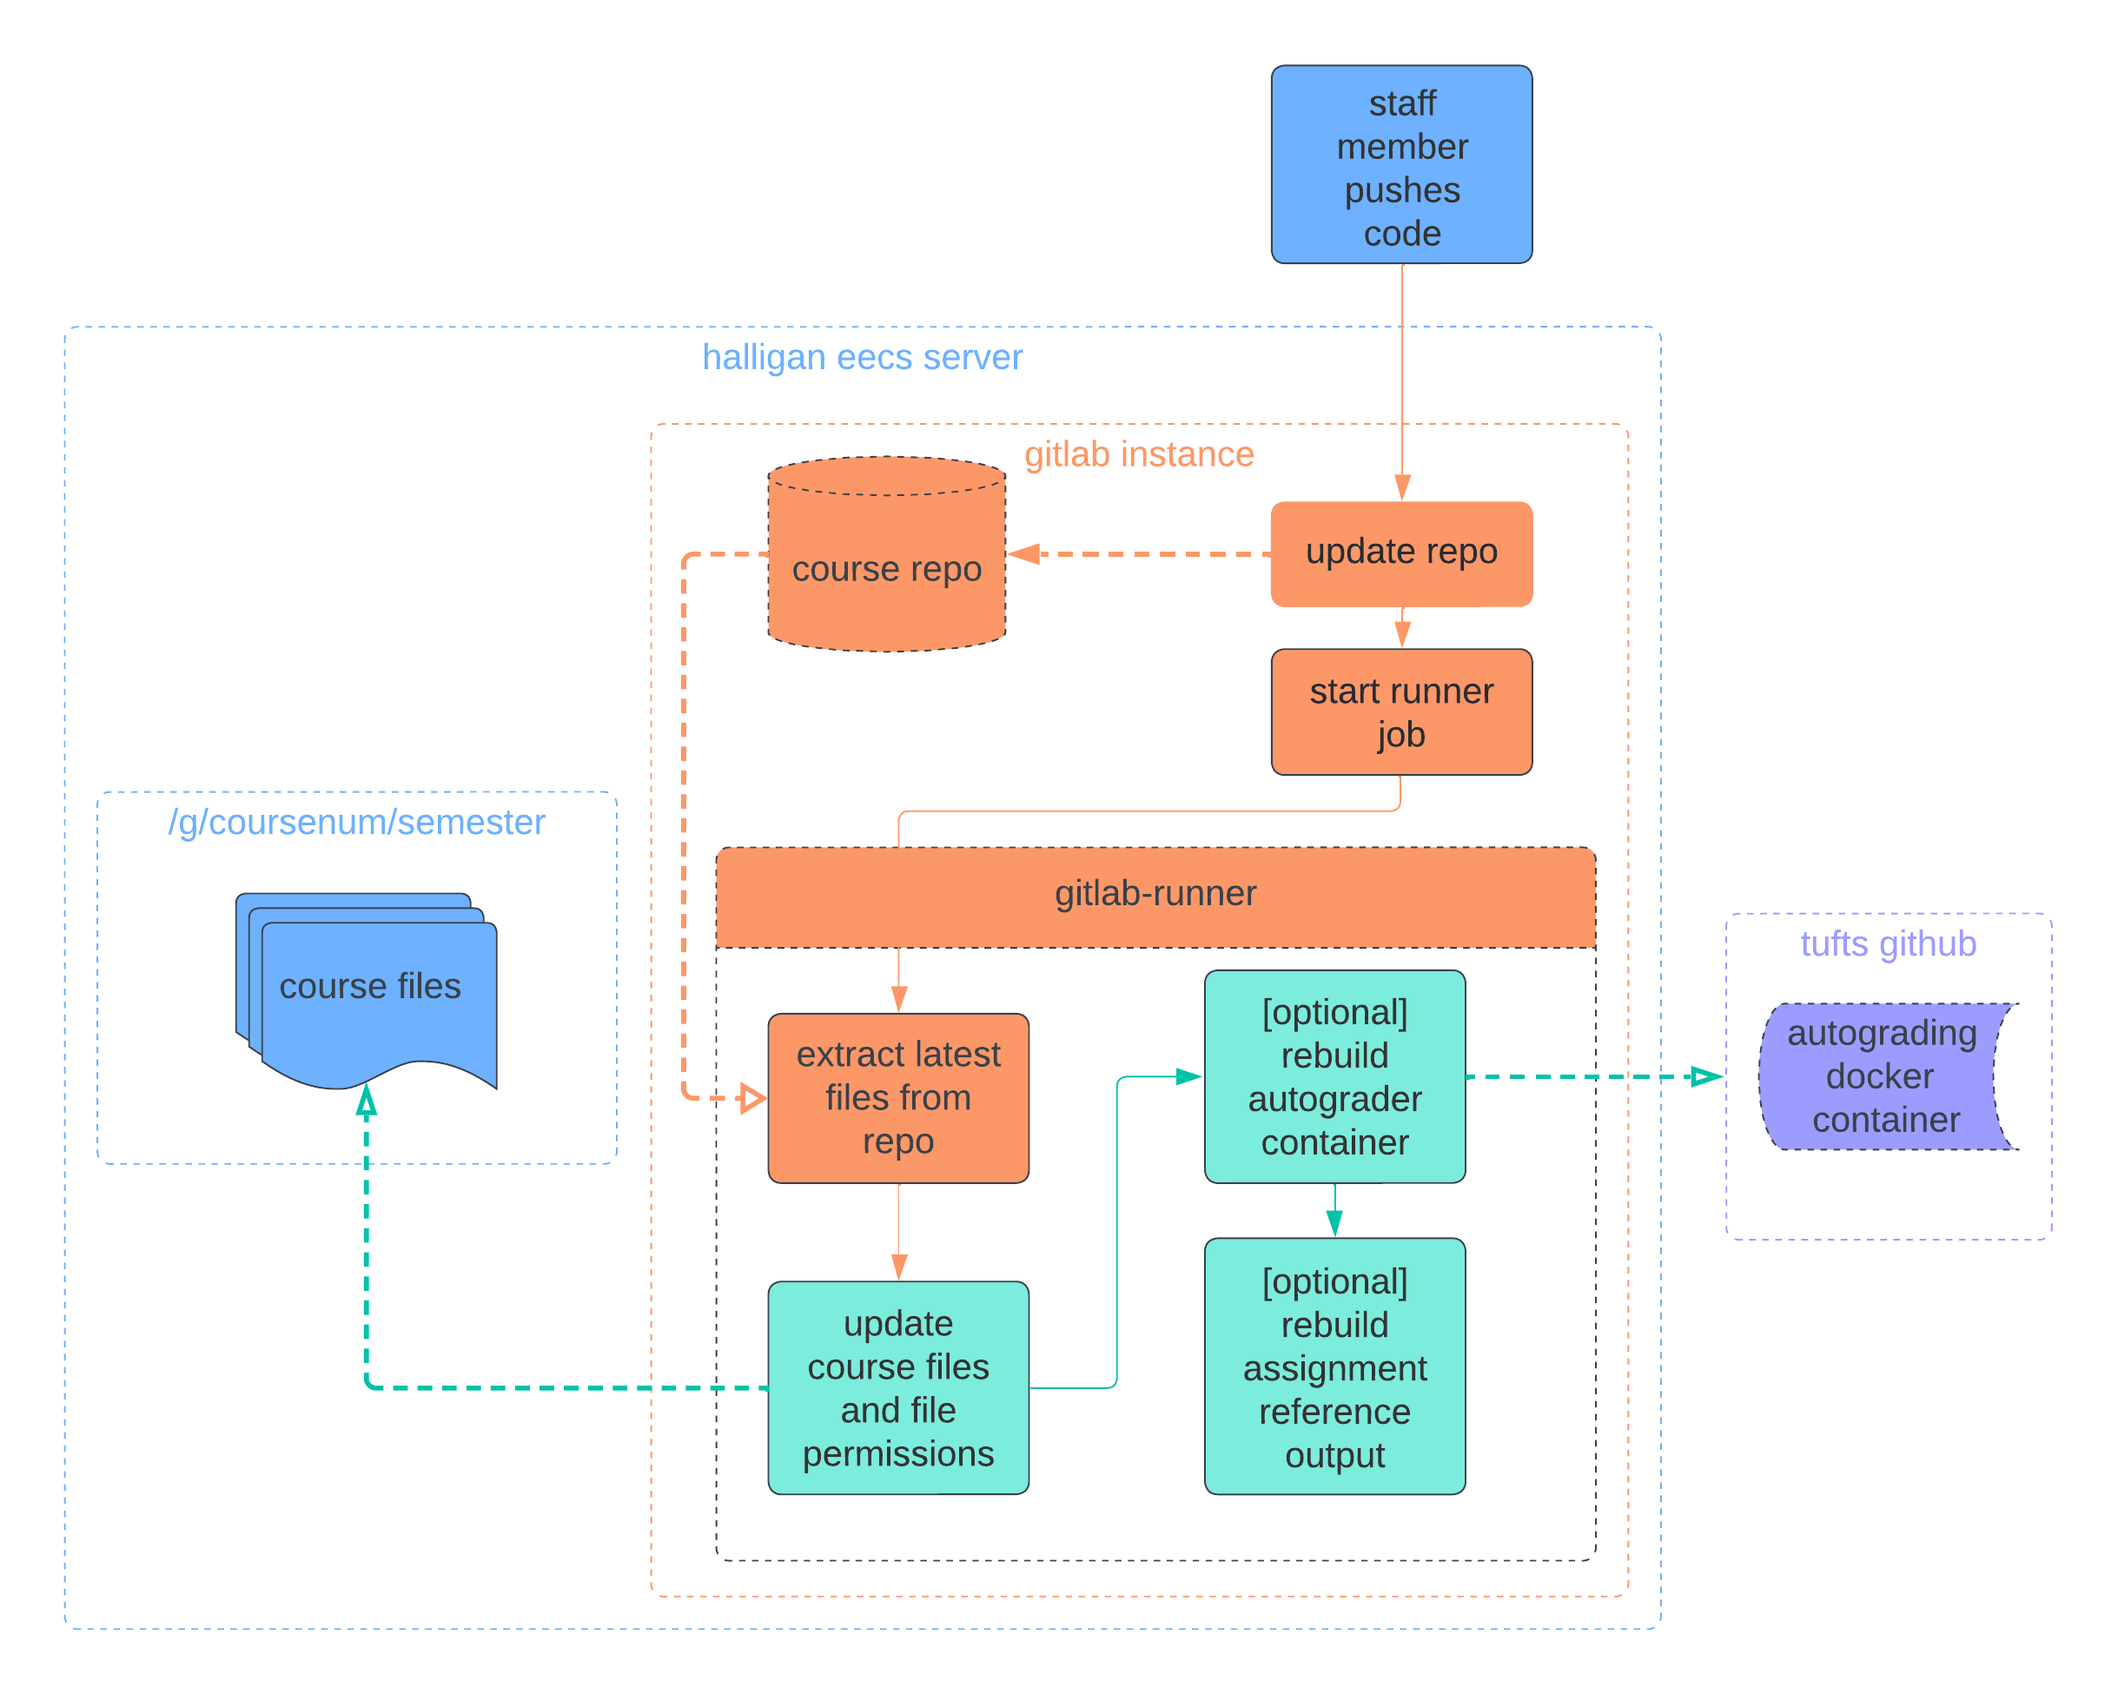
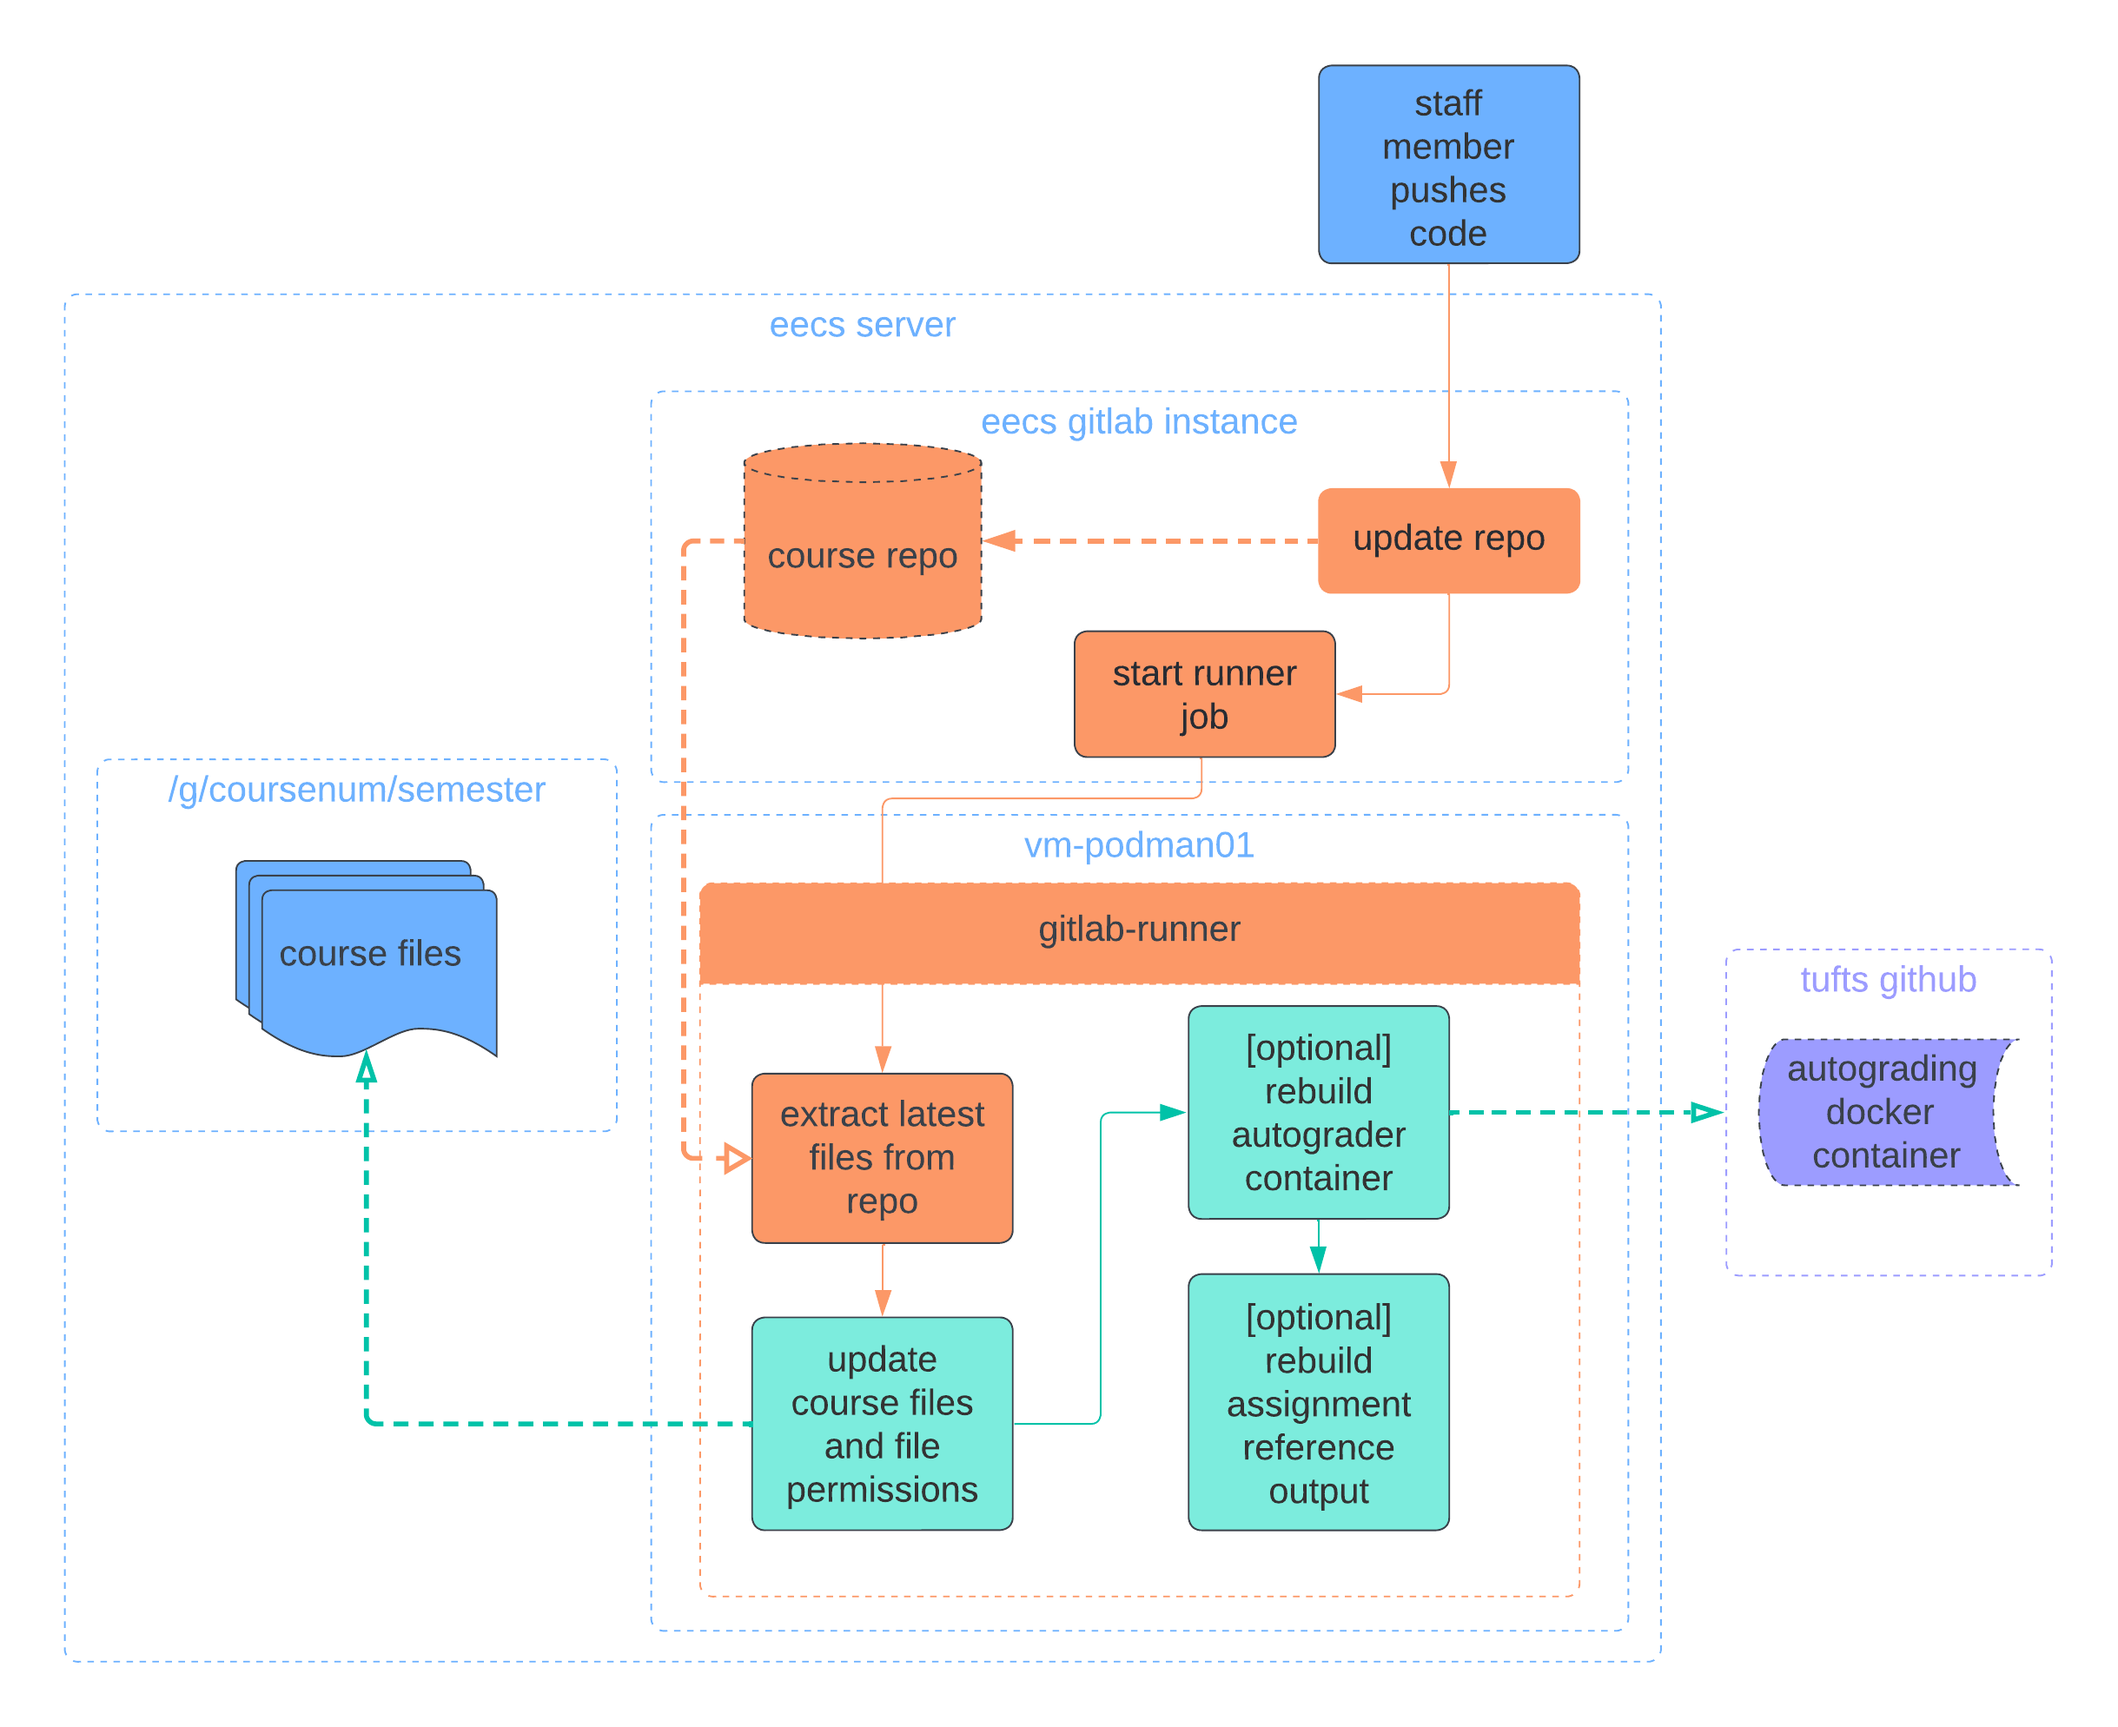
documentation updates

diff --git a/README.md b/README.md
@@ -68,102 +68,56 @@ Contains code executable by staff
 The `config.toml` file contains various essential bits of information related to the directory structure, and your course configuration in general. Please configure it as appropriate.
 
 ```toml
-# These correspond to the folders above
 [repo]
 AUTOGRADING_ROOT = "autograding" 
 ASSIGN_ROOT      = "assignments" 
-ASSIGN_AG_DIR    = "autograder"  
-ASSIGN_SOL_DIR   = "solution"
-```
+ASSIGN_AG_DIR    = "autograder"   # e.g. assignments/my_assign/autograder
+ASSIGN_SOL_DIR   = "solution"     # e.g. assignments/my_assign/solution
 
-```toml
 [halligan]
-#
-# the [halligan] section contains variables relating to storage of 
-# data from the course repo on the halligan server. These variables
-# will be used by the CI/CD pipeline to
-#   1) place the course files in /g/${COURSE_NUM}/${TERM}
-#   2) course files will be chgrp'd as ${FILE_GROUP}
 COURSE_NUM = 15
-TERM       = "2023s"
-FILE_GROUP = "ta15"
-```
+TERM       = "2023s"     # CI/CD puts course files to /g/$COURSE_NUM/$TERM
+FILE_GROUP = "ta15"      # CI/CD chgrps course files as $FILE_GROUP
 
-```toml
 [tokens]
-#
-# the [tokens] section contains token-related information. 
-# 
-# MANAGE_TOKENS   -> whether to manage tokens or not
-# GRACE_TIME      -> submission time is subtracted by this value (in minutes)
-# TOKEN_TIME      -> time per token (in minutes)
-# STARTING_TOKENS -> value in all students accounts to begin the semester
-#                    note: this value *is* modifiable mid-semester
-#
-# MAX_PER_ASSIGN  -> maximum number of tokens a student can use per assignment
-#                    note: for now MUST be 2, so tweak TOKEN_TIME instead
-#
-# EXCEPTIONS      -> dictionary of the form "TOKEN USER" = MAX_TOKENS
-#                    note: must EXACTLY match the student's gradescope name
-MANAGE_TOKENS   = true
-GRACE_TIME      = 15   
-TOKEN_TIME      = 1440 
-STARTING_TOKENS = 5
-MAX_PER_ASSIGN  = 2
-[tokens.EXCEPTIONS]
-"Matthew P. Russell" = 1
-```
+MANAGE_TOKENS   = true   # manage tokens or not?
+GRACE_TIME      = 15     # (in minutes)
+TOKEN_TIME      = 1440   # (in minutes)
+STARTING_TOKENS = 5      # max per-student: modifiable anytime
+MAX_PER_ASSIGN  = 2      # (this must be 2 for now)
+[tokens.EXCEPTIONS]      
+"Matthew P. Russell" = 1 # adjust student max: EXACT name on gradescope
 
-```toml
 [misc]
-#
-# [misc] contains other miscellaneous information
-#
-# SUBMISSIONS_PER_ASSIGN -> max submissions each student has per assignment
-#                           note: is overridable an assign's testset.toml
-#
-# TEST_USERS -> gradescope users who are exempt from submission validation
-SUBMISSIONS_PER_ASSIGN = 5
-TEST_USERS             = ["Matthew P. Russell"]
-```
+SUBMISSIONS_PER_ASSIGN = 5                      # overridable in testset.toml
+TEST_USERS             = ["Matthew P. Russell"] # EXACT gs name
 
-```toml
 [style]
-#
-# [style] contains auto style-checker info
-#
-# NON_CODE_STYLE_CHECKSET -> files to stylecheck outside of code (e.g. 80 cols)
-# CODE_STYLE_CHECKSET     -> files to stylecheck for code stuff
-# MAX_COLUMNS             -> max allowable columns for 'good style'
-# XXXXXX_STYLE_WEIGHT     -> relative points to take off for:
-#     COLUMNS -> exceeding MAX_COLUMNS
-#     TABS    -> tab characters
-#     TODOS   -> string "TODO"
-#     SYMBOL  -> &&, ||, !, etc.
-#     BREAK   -> "break"
-#     BOOLEAN -> x == true, y == false
 NON_CODE_STYLE_CHECKSET = ['README', '.h', '.cpp']
 CODE_STYLE_CHECKSET     = ['.h', '.cpp']
 MAX_COLUMNS             = 80
-COLUMNS_STYLE_WEIGHT    = 1
+COLUMNS_STYLE_WEIGHT    = 1    # XXX_STYLE_WEIGHT relative points to deduct
 TABS_STYLE_WEIGHT       = 1
-TODOS_STYLE_WEIGHT      = 0.5
-SYMBOL_STYLE_WEIGHT     = 0.5
-BREAK_STYLE_WEIGHT      = 0.5
-BOOLEAN_STYLE_WEIGHT    = 0.5
+TODOS_STYLE_WEIGHT      = 0.5  # TODO comments in code
+SYMBOL_STYLE_WEIGHT     = 0.5  # &&, ||, !, etc.
+BREAK_STYLE_WEIGHT      = 0.5  # 'break'
+BOOLEAN_STYLE_WEIGHT    = 0.5  # x == true, y == false
 ```
 
 # Establish the CI/CD Runner
-In order for code to be run (see the .gitlab-ci.yml section below) when you `git push`, you will need a `runner`. Fortunately, the Tufts EECS staff have setup the requisite infrastucture such that getting this ready is straightforward. Note that you may want to use a course-specific user account to set this runner up, since the CI/CD script will otherwise have access to your personal files. staff@eecs.tufts.edu are excellent about creating such accounts promptly; the account will need to be in the group listed in `config.toml` [usually, `taCOURSENUM`, e.g. `ta15`]; note that this group will have to be available on the podman-vm01 server. Before we get it running, you'll need to register it, which requires a registration token from your repo. In the `gitlab.cs.tufts.edu` web interface, click the settings cog (lower-left side of the screen), and then select CI/CD. Expand the `runners` section. Keep this handy. Now, open a shell.
+## Preliminaries
+You will need a `gitlab-runner` in order for the CI/CD pipeline to run when you `git push`.  Fortunately, the EECS staff have setup the requisite infrastucture such that getting this ready is straightforward. Note that you may want to use a course-specific user account to set this runner up, since the CI/CD script will otherwise have access to your personal files. `staff@eecs.tufts.edu` are excellent about creating such accounts promptly; things to tell them: 1) the account will need to be in the group listed in `config.toml` [usually, `taCOURSENUM`, e.g. `ta15`], 2) this group will have to be available on the `podman-vm01` server. 
+
+Now, open a shell.
 ```
 ssh [or the course-specific utln]@linux.cs.tufts.edu
 ssh vm-podman01
-/usr/bin/python3 -m pip install toml-cli toml --user # these are used by the runner; make sure to specify the python location as well.
+/usr/bin/python3 -m pip install toml-cli toml --user # this line must be exact
 gitlab-runner register
 ```
 Here are the variables you'll need:
 * GitLab instance URL: https://gitlab.cs.tufts.edu
-* Registration Token: (what you copied above)
+* Registration Token: In the `gitlab.cs.tufts.edu` web interface, click the settings cog (lower-left side of the screen), and then select CI/CD. Expand the `runners` section. Copy the token.
 * Description, Tags, and Maintenance Note: [optional] whatever you'd like
 * Executor: `shell`
 
@@ -196,7 +150,7 @@ gitlab-runner run &
 ```
 At this point the runner will start running. 
 
-You can exit out of the terminal, and due to the system configuration, this runner will stay alive. Now refresh the web page in the gitlab interface and expand the `runners` section again - you should see your runner available. **One thing to ensure - select the pencil icon next to the runner name, and make sure `Run untagged jobs` is checked. Good!** Now, Go back to the CI/CD settings, and expand the `variables` section. Add 2 variables here.
+You can exit out of the terminal, and due to the system configuration this runner will stay alive. Now refresh the web page in the gitlab interface and expand the `runners` section again - you should see your runner available. **One thing to ensure - select the pencil icon next to the runner name, and make sure `Run untagged jobs` is checked. Good!** Now, Go back to the CI/CD settings, and expand the `variables` section. Add 2 variables here.
 
 | Variable Key  |    <div style="width:295px">Example Value</div> | Purpose |
 |----------|--------------------|------|
@@ -204,22 +158,21 @@ You can exit out of the terminal, and due to the system configuration, this runn
 | `REPO_WRITE_DEPLOY_TOKEN` | ... | Deploy token for your repository. Create one in the gitlab web interface with settings->access tokens. The token must have `read_repository` and `write_repository` permissions, and must have at least the `maintainer` role |
 
 # Notes on podman
-* Note that the eecs server uses `podman`, as `RHEL` doesn't directly support docker.
 * You can expect that the disk usage on your system will be directly proportional to the number of available processes you provide to your runner, as each separate process has its own clone of the repo. 
 * `podman` containers **cannot** be mounted on nfs drives (e.g. your home directory); this is one of the reasons the `storage.conf` file is necessary above. 
 * Despite that your containers will be built in `/var/tmp/YOUR_HALLIGAN_UTLN_HERE/containers/storage`, there is still a upper-limit to the storage space. I ran out at ~20gb. A few handy `podman` commands in regard to this
     * `podman system df`          -> shows your podman disk usage
     * `podman system prune --all` -> frees unused space from podman
-                                  -> note that the output re: space freed can be misleading (look super large) if your containers share layers. 
+                                  -> the output re: space freed can be misleading (look super large) if your containers share layers. 
     * `podman rmi --all --force`  -> cleans any containers that might be in-use (sometimes is an issue if containers-builds are quit mid-process)
  
     * The default behavior of our `CI/CD` scripts that use podman is to automatically run `podman system prune --all --force` and `podman rmi --all --force` to cleanup. This is not the most efficient in that the autograding containers will need to be pulled every time rather than leveraging a cache, but should keep your space on `/tmp` from filling up, which would prevent the script from running at all. TODO: update script to run the `prune/rmi` commands when `podman df` reports usage over ~10 (?) gb.
-* If the EECS folks have to restart the `vm-podman01` server, for now you will have to manually restart your runner (`gitlab-runner run &`) [note that this has not happened in the first year of the server being up].
+* If the EECS folks have to restart the `vm-podman01` server, for now you will have to manually restart your runner (`gitlab-runner run &`) [note that this has happened once the first year of the server being up].
 
 # .gitlab-ci.yml
 The 'magic' here all happens by way of the `.gitlab-ci.yml` file, which gitlab works with automatically whenever you run `git push`. The file is already configured to do what you'll need to (assuming your `config.toml` is set up properly). 
 
-## NOTE: **`course-repos`** group-level variables
+## **`course-repos`** group-level variables
 To make this all work, the `.gitlab-ci.yml` file also relies on some gitlab environment variables that are set at a course-repos group level, and which are automatically accessible by every course under that group. **DO NOT MODIFY THESE GROUP-LEVEL VARIABLES! Furthemore, these variables contain sensitive information intended to be visible only to trusted members of the Tufts CS community, so please be careful to whom you give privileged access to your course repository!**
 
 ## Gitlab-runner jobs
